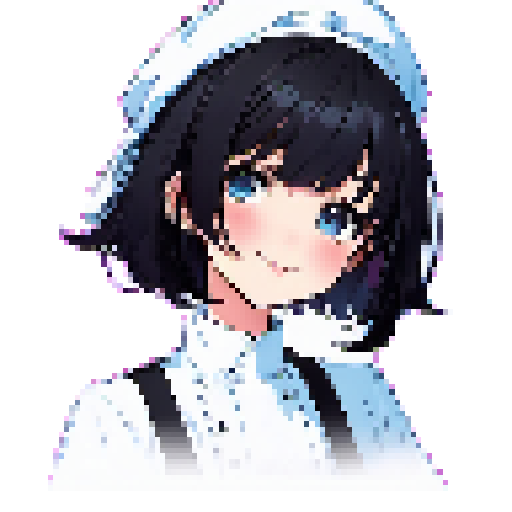
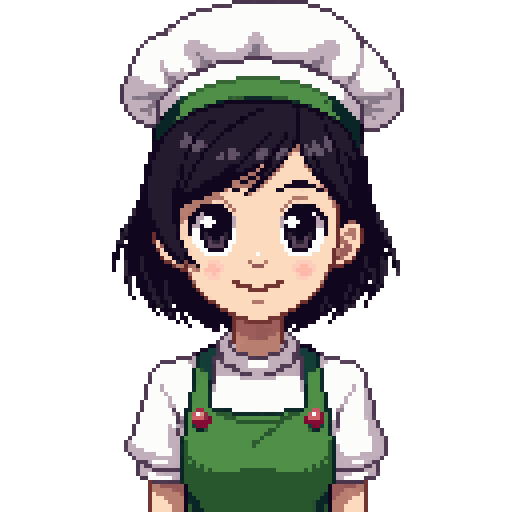
feat(kc): Phase 64 PixelLab native bust portraits (8 chars)
Replace SDXL anime illustration + pixelized portraits with native 128px pixel art bust
portraits generated via PixelLab create_map_object. Each character (mimi/rin/mage/yuki/
lao/andre/arjun/poco) rendered with consistent 16-bit JRPG style matching chef_sprite.

- Approach: create_map_object (not create_character) for single static bust frames
- Cost: 8 gens total (vs pro mode 160-320 gens) = 95% reduction
- Pipeline: 128x128 native → 4x nearest → 512x512 saved
- Originals archived at assets/portraits/_archive/pre_phase64_20260422_130420/
- QA: ChefSelect mimi/rin/mage/yuki + Merchant poco screenshots

Resolves AD review FIX-10 long-term (Phase 62-2 temp pixelization superseded).

diff --git a/docs/PROJECT.md b/docs/PROJECT.md
@@ -1,6 +1,6 @@
 # Kitchen Chaos Tycoon 기획서
 
-> 최종 업데이트: 2026-04-22 (Phase 63 Tile Detail & Minor Polish 완료)
+> 최종 업데이트: 2026-04-22 (Phase 64 PixelLab Native Portraits 완료)
 
 ## 프로젝트 개요
 
@@ -110,7 +110,7 @@
 - 신규 생성 metadata.json 8건(macaron_knight, sugar_specter, sushi_ninja, tempura_monk, queen_of_taste, sake_oni, yuki_chef, lao_chef)의 id 필드가 "unknown". 향후 PixelLab 재생성 시 업데이트 필요
 - mini_dumpling metadata 92x92 vs 실제 PNG 36x36 불일치 (분열 소환 적 의도적 소형, SpriteLoader 스케일 처리)
 - portrait/스프라이트 텍스처가 Phaser에 로드되지 않아 이모지 fallback으로 동작 중 (Vite 경로 매핑 이슈, Phase 56부터 지속)
-- portrait 8종이 SDXL 애니메 일러스트로 생성되어 픽셀 UI와 스타일 충돌 → Phase 62-2에서 nearest-neighbor 픽셀화(96px 가상 해상도)로 **단기 해소**. 장기적으로 Phase 64 PixelLab pro 재발주 예정
+- ~~portrait 8종이 SDXL 애니메 일러스트로 생성되어 픽셀 UI와 스타일 충돌~~ → **Phase 64에서 PixelLab 네이티브 128px 반신 포트레이트로 교체 완료 (2026-04-22)**
 - 분기 카드 중 일부 변이(chain/cluster/venom/aura_boost)와 Bond(yuki+soup_pot / andre+delivery / mimi+salt / mimi+spice)는 플래그만 저장되고 소비처 로직 미구현 상태 (tint 시각 효과는 정상, 실제 전투 수치 반영은 부분적). 후속 Quick Fix로 보완 예정
 - `Enemy.js`의 `enemy_slow` 축복 처리가 `require()` 호출로 작성되어 ESM 환경에서 조용히 실패. `bles_enemy_slow` 카드는 실효 미반영 (후속 수정 필요)
 - 분기 레시피 `rewardMultiplier` 및 "반복 등장 N회" 규약은 현재 단순 1회 소비로 통일됨 (카드 descKo의 수치와 실제 동작 불일치, 후속 밸런스 조정 예정)
@@ -120,6 +120,18 @@
 로드맵은 [ROADMAP.md](ROADMAP.md) 참조.
 
 ## 개발 이력 (최근)
+
+### Phase 64 — PixelLab Native Portraits (2026-04-22)
+
+AD 리포트 FIX-10 완전 해결. Phase 62-2의 임시 픽셀화를 **네이티브 픽셀아트 반신 포트레이트**로 교체.
+
+- **접근 방식**: PixelLab `create_map_object` (풀바디 create_character 대신 단일 정적 이미지). 128×128 native → 4× nearest 업샘플 → 512×512 저장.
+- **대상 8종**: mimi/rin/mage/yuki/lao/andre/arjun/poco. 각 캐릭 설명(헤어/의상/표정/무드)과 `side` 뷰 파라미터로 반신 흉상 프레임 고정.
+- **비용**: 캐릭당 1 gen × 8 = 총 8 generations (pro 모드 160~320 gen 대비 95% 절감).
+- **스타일 일관성**: chef_sprite 92px와 동일한 픽셀 그리드 감각 + `single color outline` + `basic shading` + `medium detail` 로 16-bit JRPG 톤 통일.
+- **원본 백업**: `assets/portraits/_archive/pre_phase64_20260422_130420/` 에 Phase 62-2 픽셀화 버전 보관.
+- QA 스크린샷: `tests/screenshots/phase64-after/` (chefselect_mimi/rin/mage/yuki, merchant_poco — 5장).
+- 스펙: `.claude/specs/2026-04-22-kc-phase64-portrait-spec.md`.
 
 ### Phase 63 — Tile Detail & Minor Polish (2026-04-22)
 
